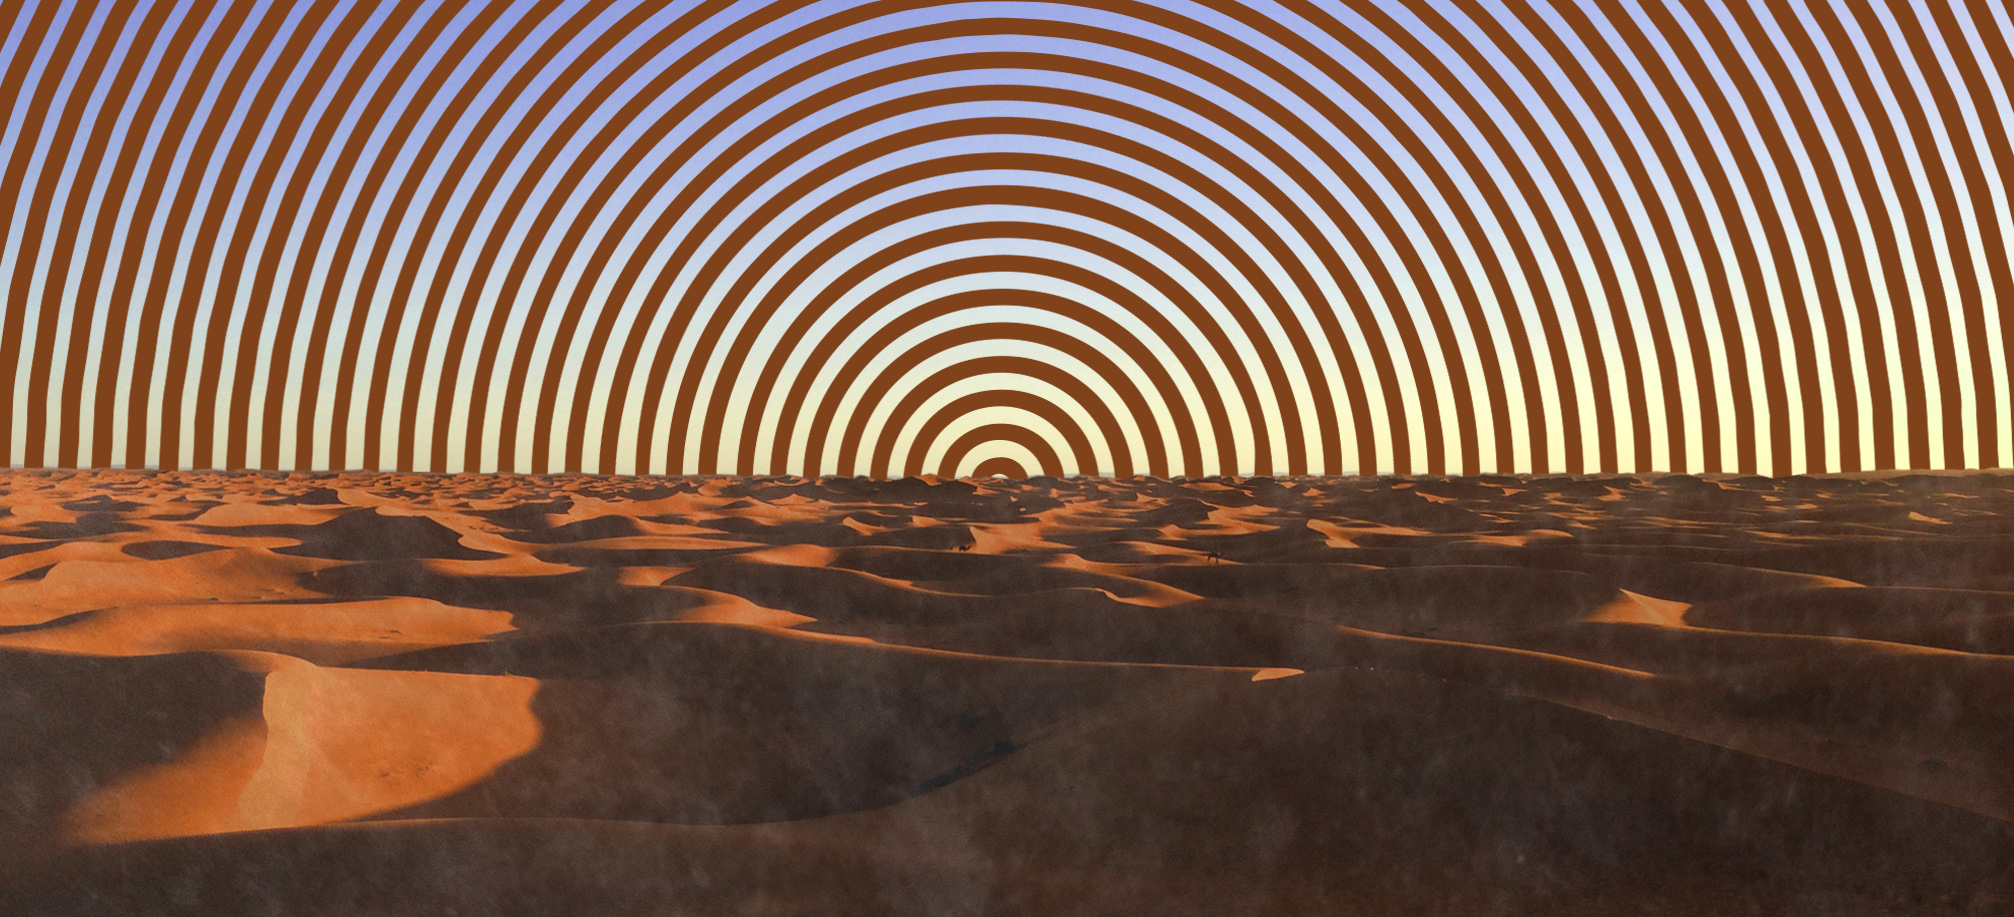
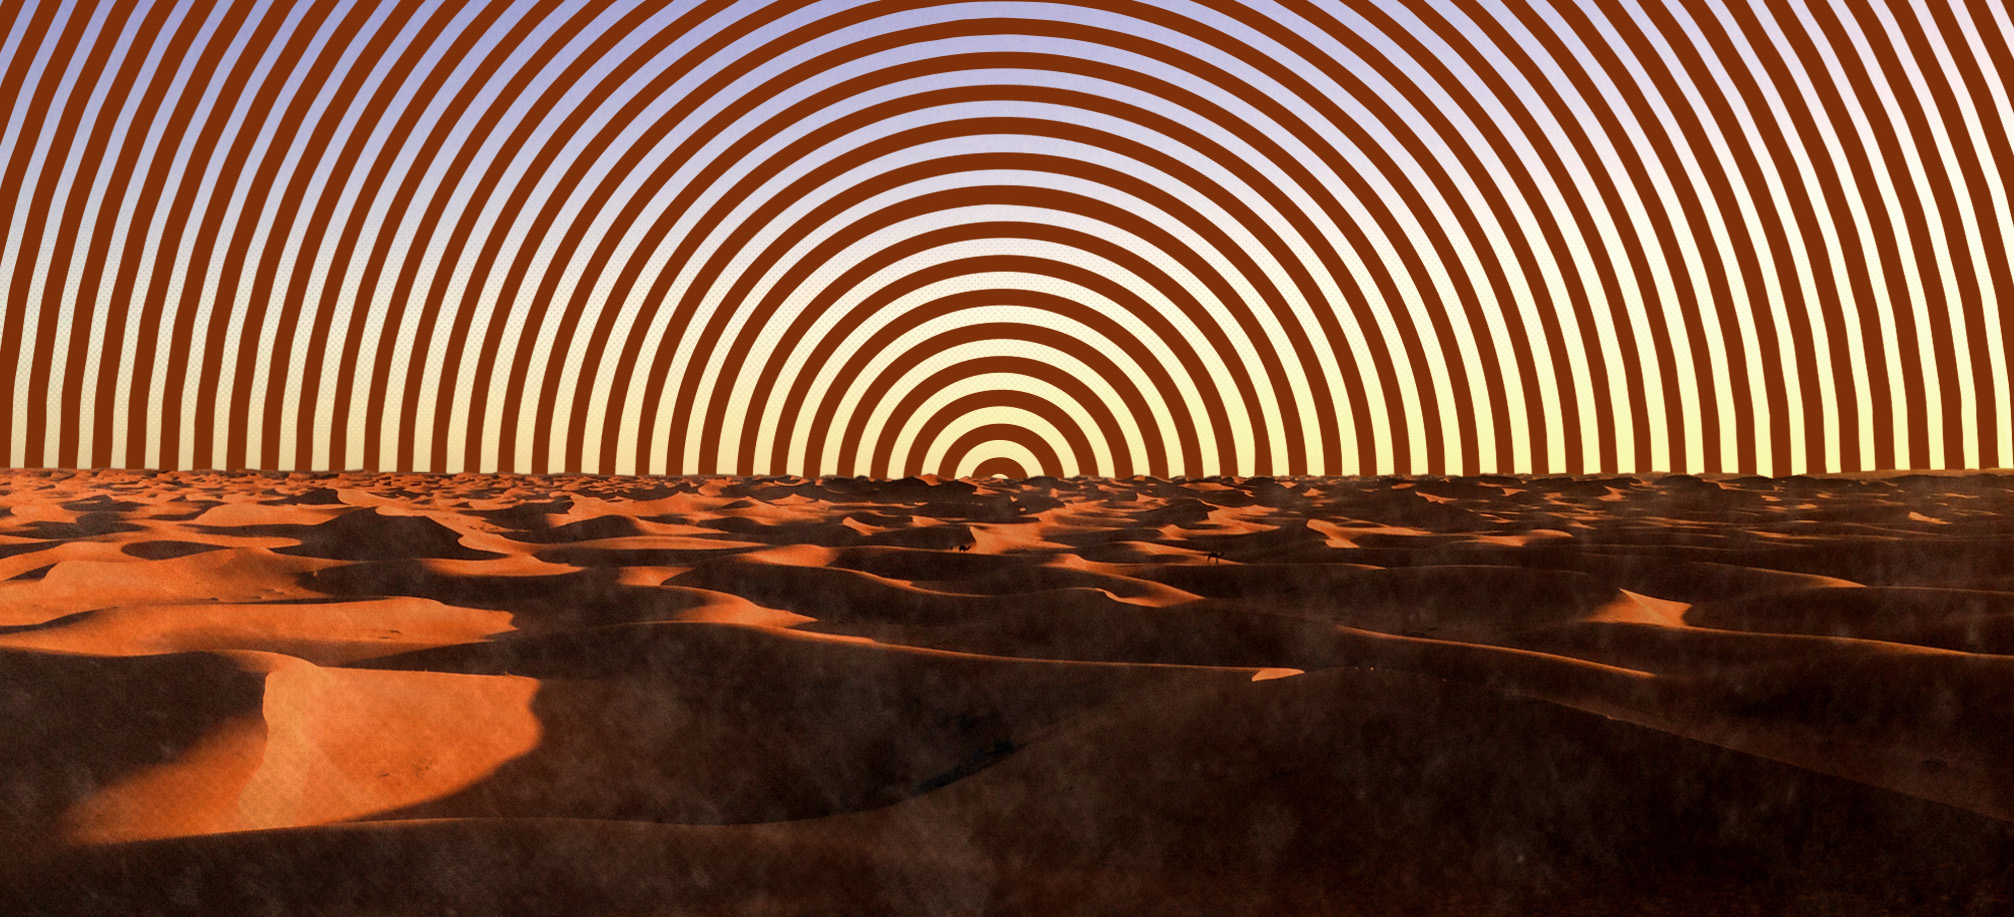
imagen de fondo mobile

diff --git a/index.html b/index.html
@@ -77,16 +77,11 @@
             <section id="historia">
                 <p class="subtitulo">HISTORIA</p>
                 <article class="historia">   
-                    <p>Los Natas fue formada en 1994 en la ciudad de Buenos Aires, por Sergio Chotsourian (voz y guitarra), Walter Broide (batería y coros) y Miguel Fernández (bajo).</p>
-                    <p>Sus influencias musicales son numerosas y variadas, teniendo como base el sonido crudo y psicodélico de bandas de los 70's como The Doors, Black Sabbath, The Who, Pink Floyd o Hawkwind, entre otras, y también de la banda pionera del desert rock, Kyuss. A raíz de eso, Los Natas proponen un sonido con fuerte presencia de equipamiento valvular e instrumentos vintage. Su música se caracteriza por constantes cambios a la largo de una canción, y por largas improvisaciones, que varían en cada interpretación, mezclando rock espacial, rock psicodélico y jazz.</p>
-                    <p>En 1996, grabaron su primer álbum, Delmar, que recién sería editado y distribuido dos años después por el mítico sello estadounidense Man's Ruin Records de San Francisco, apoyados por el dueño del sello, Frank Kozic.</p>
-                    <p>No obstante, el disco que les abriría un camino dentro de la industria musical sería Ciudad de Brahman, grabado en 1999 en Estados Unidos, y producido por Dale Crover (Nirvana, Melvins). Este disco contiene canciones que se tornarían clásicos de la banda, como Meteoro 2028.</p>
-                    <p>El siguiente disco fue Corsario Negro, editado en 2002 y producido por Billy Anderson, que se caracterizaba por una atmósfera oscura y pesada. Dos años después editan un disco doble, Toba Trance vol 1 & 2. Allí les dieron total libertad para componer el álbum, y el resultado fue un disco más experimental, y con incursiones de hasta veinte minutos de duración.</p>
-                    <p>Los Natas han salido de gira por Estados Unidos durante los años 1998, 1999 y 2000, además por Europa entre 2003 y 2009; donde compartieron escenario con importantes bandas del género como Queens of the Stone Age, Nebula, The Men of Porn, Unida, Dozer, Circle, Colour Haze o Brant Bjork, entre otras.</p>
-                    <p>También han realizado muchos conciertos temáticos, llamados Viernes Verdes, los cuales han tenido lugar en los principales teatros de Capital Federal. En estos espectáculos la banda tocaba, mientras se emitían proyecciones psicodélicas de fondo que acompañaban la música, espectáculo también presente en otras provincias del país, y en numerosos lugares de Buenos Aires.</p>
+                    <p>Los Natas fue formada en 1994 en la ciudad de Buenos Aires, por Sergio Chotsourian (voz y guitarra), Walter Broide (batería y coros) y Miguel Fernández (bajo). Sus influencias musicales son numerosas y variadas, teniendo como base el sonido crudo y psicodélico de bandas de los 70's como The Doors, Black Sabbath, The Who, Pink Floyd o Hawkwind, entre otras, y también de la banda pionera del desert rock, Kyuss. A raíz de eso, Los Natas proponen un sonido con fuerte presencia de equipamiento valvular e instrumentos vintage. Su música se caracteriza por constantes cambios a la largo de una canción, y por largas improvisaciones, que varían en cada interpretación, mezclando rock espacial, rock psicodélico y jazz.</p>
+                    <p>En 1996, grabaron su primer álbum, Delmar, que recién sería editado y distribuido dos años después por el mítico sello estadounidense Man's Ruin Records de San Francisco, apoyados por el dueño del sello, Frank Kozic. No obstante, el disco que les abriría un camino dentro de la industria musical sería Ciudad de Brahman, grabado en 1999 en Estados Unidos, y producido por Dale Crover (Nirvana, Melvins). Este disco contiene canciones que se tornarían clásicos de la banda, como Meteoro 2028. El siguiente disco fue Corsario Negro, editado en 2002 y producido por Billy Anderson, que se caracterizaba por una atmósfera oscura y pesada. Dos años después editan un disco doble, Toba Trance vol 1 & 2. Allí les dieron total libertad para componer el álbum, y el resultado fue un disco más experimental, y con incursiones de hasta veinte minutos de duración.</p>
+                    <p>Los Natas han salido de gira por Estados Unidos durante los años 1998, 1999 y 2000, además por Europa entre 2003 y 2009; donde compartieron escenario con importantes bandas del género como Queens of the Stone Age, Nebula, The Men of Porn, Unida, Dozer, Circle, Colour Haze o Brant Bjork, entre otras. También han realizado muchos conciertos temáticos, llamados Viernes Verdes, los cuales han tenido lugar en los principales teatros de Capital Federal. En estos espectáculos la banda tocaba, mientras se emitían proyecciones psicodélicas de fondo que acompañaban la música, espectáculo también presente en otras provincias del país, y en numerosos lugares de Buenos Aires.</p>
                     <p>El sucesor de Toba Trance sería München Sessions de 2005, grabado en la ciudad de Múnich, seguido de El Hombre Montaña, que fue lanzado en 2006. Este disco, también producido por Anderson/Claypole, presentaba un sonido más crudo y pesado que los discos anteriores. Fue grabado en Buenos Aires y mezclado en San Francisco.</p>
-                    <p>Los Natas editaron su último disco en 2009, Nuevo orden de la libertad, compuesto por diez canciones con un estilo aún más crudo y conciso. El mismo fue grabado por Patricio Claypole y Álvaro Villagra en Buenos Aires y masterizado en Estados Unidos.</p>
-                    <p>El 3 de febrero del 2012 anuncian su separación a través de un comunicado en la red social Facebook.</p>
+                    <p>Los Natas editaron su último disco en 2009, Nuevo orden de la libertad, compuesto por diez canciones con un estilo aún más crudo y conciso. El mismo fue grabado por Patricio Claypole y Álvaro Villagra en Buenos Aires y masterizado en Estados Unidos. El 3 de febrero del 2012 anuncian su separación a través de un comunicado en la red social Facebook.</p>
                 </article> 
                 <article class=".d-sm-none .d-md-block">
                     <ul class="contenedor-videos">

diff --git a/css/styles.css b/css/styles.css
@@ -4453,11 +4453,19 @@ header {
   -o-transition: 0.5s;
   transition: 0.5s; }
 
-body {
-  background-image: url(../img/PORTADA.jpg);
-  background-size: cover;
-  background-attachment: fixed;
-  background-position: top; }
+@media (max-width: 600px) {
+  body {
+    background-image: url(../img/PORTADA-MOB.jpg);
+    background-size: cover;
+    background-attachment: fixed;
+    background-position: top; } }
+
+@media (min-width: 601px) {
+  body {
+    background-image: url(../img/PORTADA.jpg);
+    background-size: cover;
+    background-attachment: fixed;
+    background-position: top; } }
 
 section {
   background: black;
@@ -4530,6 +4538,25 @@ section {
     font-family: 'Bitter', serif;
     font-weight: bold;
     margin-top: 27%;
+    position: relative;
+    text-align: center;
+    height: 100vh;
+    text-shadow: 2px 2px 8px #332e2e; }
+  .subtitulo {
+    font-family: 'Bitter', serif;
+    font-size: 40px;
+    font-style: bold;
+    color: white;
+    padding: 25px 0px;
+    text-align: center; } }
+
+@media (min-width: 1200px) {
+  .titulo {
+    color: white;
+    font-size: 150px;
+    font-family: 'Bitter', serif;
+    font-weight: bold;
+    margin-top: 35%;
     position: relative;
     text-align: center;
     height: 100vh;
@@ -4692,7 +4719,7 @@ section {
     .historia p {
       color: grey;
       font-family: 'Noto Sans JP', sans-serif;
-      font-size: 13px; } }
+      font-size: 14px; } }
 
 /*DISCOGRAFIA*/
 .centrar {

diff --git a/sass/styles.scss b/sass/styles.scss
@@ -30,14 +30,24 @@ header {
     }
 }
 
+@media (max-width: 600px) {
 body {
-    background-image: url(../img/PORTADA.jpg);
+    background-image: url(../img/PORTADA-MOB.jpg);
     background-size: cover;
     background-attachment: fixed;
     background-position: top;
+    }
+}
+@media (min-width: 601px) {
+    body {
+        background-image: url(../img/PORTADA.jpg);
+        background-size: cover;
+        background-attachment: fixed;
+        background-position: top;
+    }
 }
 
-section {
+    section {
     background: black;
     margin: 5%;
     padding:70px 0px;
@@ -134,7 +144,27 @@ section {
         text-align: center;
     }
 }
-
+@media (min-width: 1200px) { 
+    .titulo {
+        color: white;
+        font-size: 150px;
+        font-family: 'Bitter', serif;
+        font-weight: bold;
+        margin-top: 35%; 
+        position: relative;
+        text-align: center;
+        height: 100vh;
+        text-shadow: 2px 2px 8px #332e2e;
+    }
+    .subtitulo {
+        font-family: 'Bitter', serif;
+        font-size: 40px;
+        font-style: bold;
+        color: white;
+        padding: 25px 0px;
+        text-align: center;
+    }
+}
 
 /*INTEGRANTES*/
 
@@ -296,7 +326,7 @@ padding: 0px 30px;
             p {
                 color:grey;
                 font-family: 'Noto Sans JP', sans-serif;
-                font-size: 13px;
+                font-size: 14px;
             }
     }
 }
